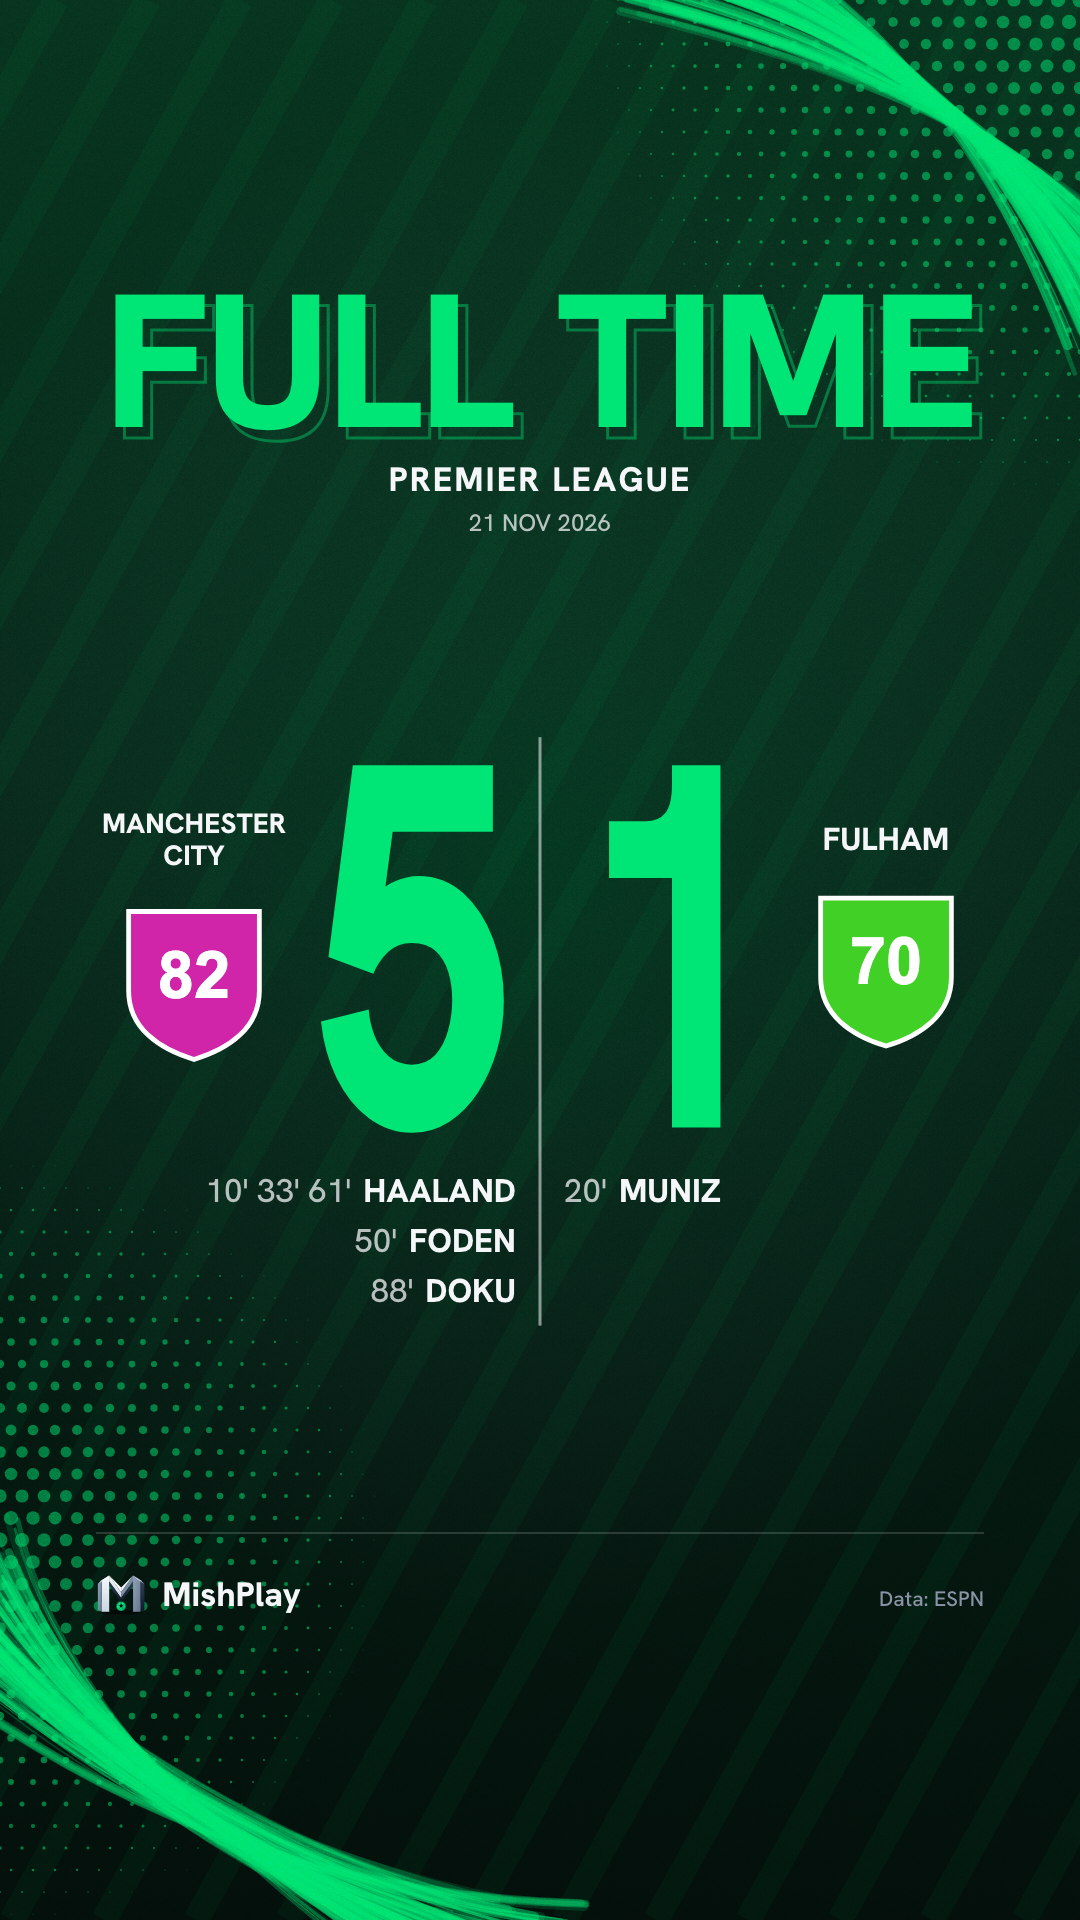
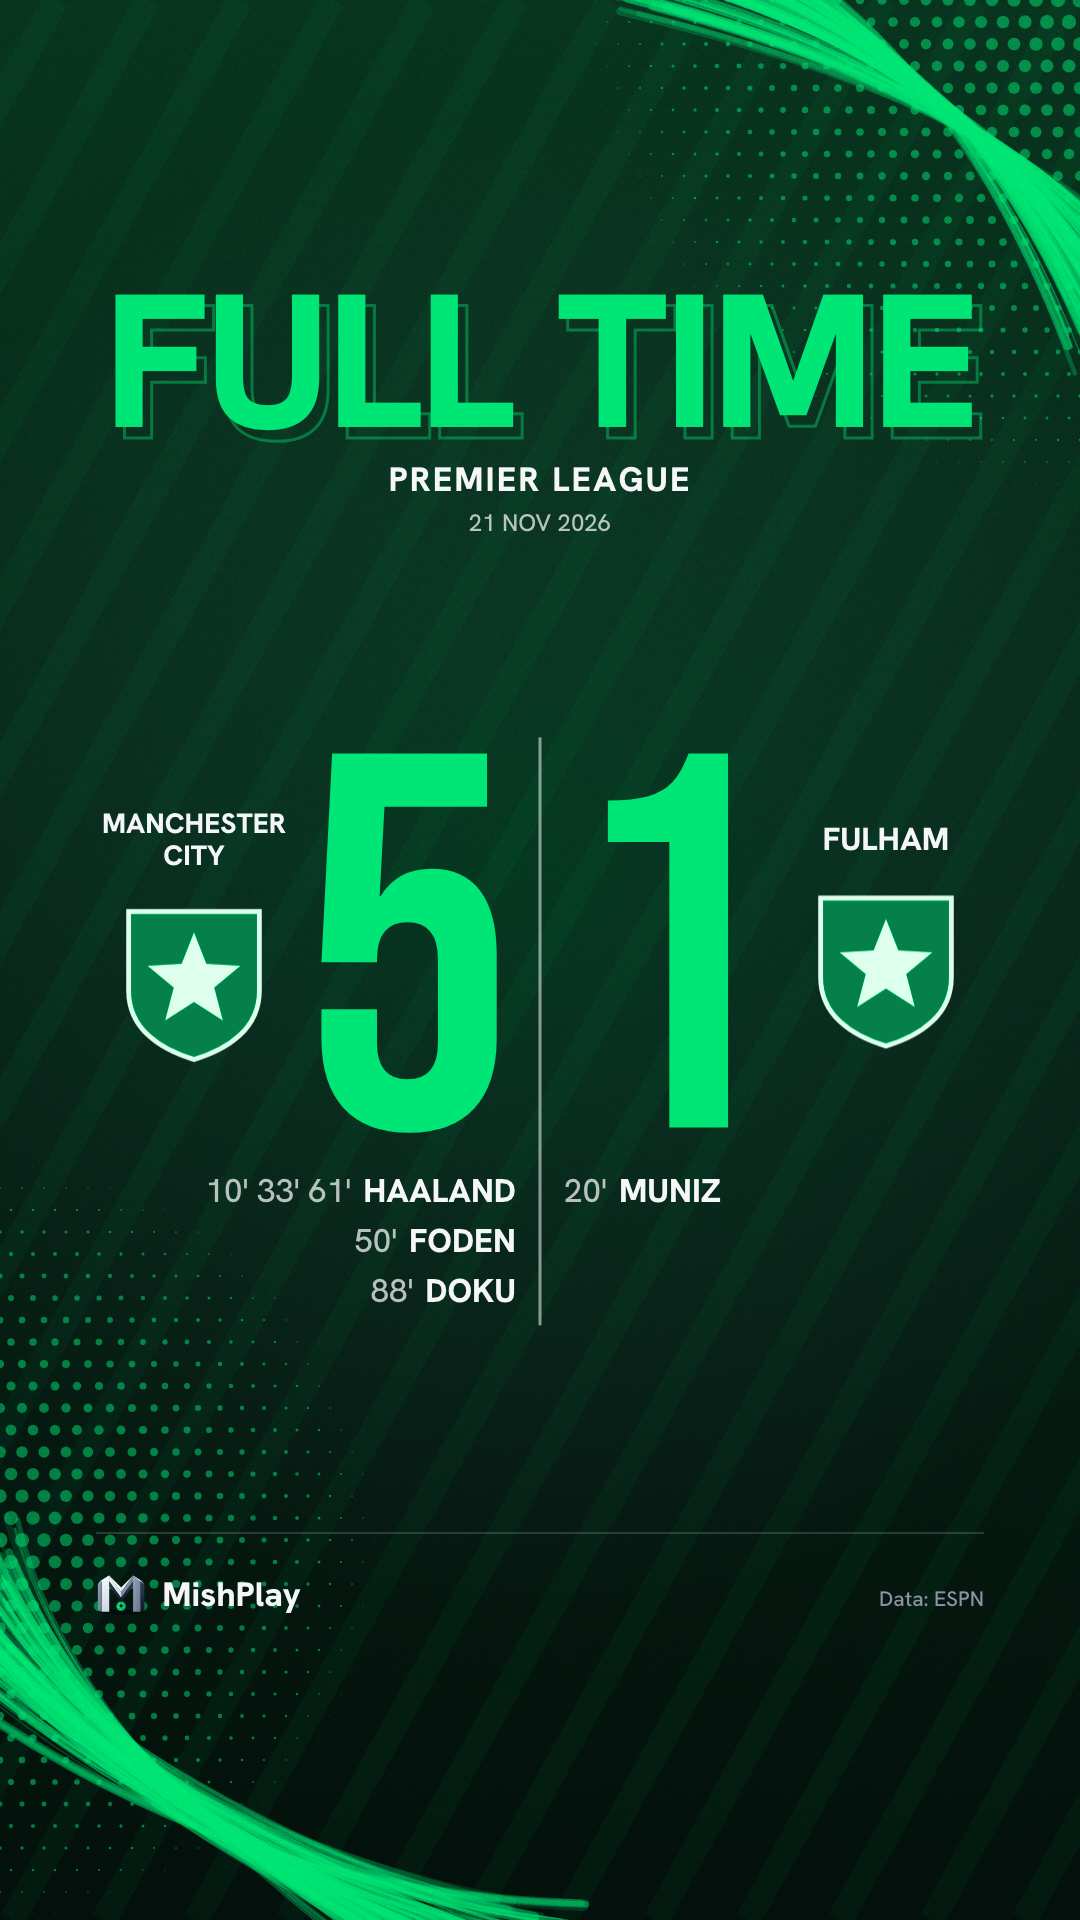
Match poster: Bebas Neue score numerals, crests recoloured in app green

diff --git a/src/features/share/draw.ts b/src/features/share/draw.ts
@@ -2,7 +2,7 @@ import type { PlayerCandidate, Scorer, ShareData, Side } from './model'
 import { splitName } from './model'
 import type { Loaded } from './images'
 import type { Team } from '../../services/football/types'
-import { COLOR, FONT_FAMILY, FORMATS, HAIR, MARGIN, SPACE, TYPE, WEIGHT, type FormatId } from './tokens'
+import { COLOR, FONT_FAMILY, FORMATS, HAIR, MARGIN, SCORE_FONT, SPACE, TYPE, WEIGHT, type FormatId } from './tokens'
 
 export { FORMATS, type FormatId }
 export type MatchTemplateId = 'result' | 'scorers' | 'fan'
@@ -99,13 +99,30 @@ function deepen(hex: string): string | null {
   const [R, G, B] = h < 60 ? [c, x, 0] : h < 120 ? [x, c, 0] : h < 180 ? [0, c, x] : h < 240 ? [0, x, c] : h < 300 ? [x, 0, c] : [c, 0, x]
   return `rgb(${Math.round((R + m0) * 255)},${Math.round((G + m0) * 255)},${Math.round((B + m0) * 255)})`
 }
-function crest(ctx: CanvasRenderingContext2D, im: Loaded | null, name: string, cx: number, cy: number, size: number, alpha = 1) {
+/** A crest recoloured in shades of the app green: each pixel's brightness picks the shade, so inner detail survives; transparency is kept. */
+function monoCrest(im: Loaded, w: number, h: number): CanvasImageSource {
+  const c = document.createElement('canvas'); c.width = Math.max(1, Math.round(w)); c.height = Math.max(1, Math.round(h))
+  const x = c.getContext('2d', { willReadFrequently: true })!; x.imageSmoothingQuality = 'high'; x.drawImage(im.img, 0, 0, c.width, c.height)
+  let px: ImageData
+  try { px = x.getImageData(0, 0, c.width, c.height) } catch { return c }   // unreadable pixels: keep the original colours
+  const p = px.data, lumAt = (i: number) => 0.2126 * p[i] + 0.7152 * p[i + 1] + 0.0722 * p[i + 2]
+  let lo = 255, hi = 0
+  for (let i = 0; i < p.length; i += 4) if (p[i + 3] > 128) { const v = lumAt(i); if (v < lo) lo = v; if (v > hi) hi = v }
+  const stops = [[6, 128, 74], [0, 230, 118], [222, 255, 238]]              // deep green → accent → near-white mint
+  for (let i = 0; i < p.length; i += 4) {
+    const t = hi - lo < 20 ? 0.5 : Math.min(1, Math.max(0, (lumAt(i) - lo) / (hi - lo)))
+    const s = t < 0.5 ? 0 : 1, k = t * 2 - s
+    for (let j = 0; j < 3; j++) p[i + j] = stops[s][j] + (stops[s + 1][j] - stops[s][j]) * k
+  }
+  x.putImageData(px, 0, 0); return c
+}
+function crest(ctx: CanvasRenderingContext2D, im: Loaded | null, name: string, cx: number, cy: number, size: number, alpha = 1, mono = false) {
   const d = dbg(); if (d) (d.meta.crests as string[] | undefined)?.push(im ? im.source : 'fallback')
   ctx.save(); ctx.globalAlpha = alpha
-  if (im) { const k = Math.min(size / im.w, size / im.h); ctx.drawImage(im.img, cx - (im.w * k) / 2, cy - (im.h * k) / 2, im.w * k, im.h * k) }
+  if (im) { const k = Math.min(size / im.w, size / im.h), w = im.w * k, h = im.h * k; ctx.drawImage(mono ? monoCrest(im, w, h) : im.img, cx - w / 2, cy - h / 2, w, h) }
   else { // intentional fallback: a quiet ring with initials, same footprint as a crest
-    ctx.strokeStyle = COLOR.ink; ctx.lineWidth = HAIR * 2; ctx.beginPath(); ctx.arc(cx, cy, size / 2 - 2, 0, Math.PI * 2); ctx.stroke()
-    text(ctx, initials(name), cx, cy + size * 0.13, { size: size * 0.36, weight: WEIGHT.display, align: 'center' })
+    ctx.strokeStyle = mono ? COLOR.accent : COLOR.ink; ctx.lineWidth = HAIR * 2; ctx.beginPath(); ctx.arc(cx, cy, size / 2 - 2, 0, Math.PI * 2); ctx.stroke()
+    text(ctx, initials(name), cx, cy + size * 0.13, { size: size * 0.36, weight: WEIGHT.display, align: 'center', color: mono ? COLOR.accent : COLOR.ink })
   }
   ctx.restore()
 }
@@ -275,14 +292,15 @@ function headline(ctx: CanvasRenderingContext2D, l: L, s: string, base: number, 
   return size
 }
 
-/** Score numeral, set tall and narrow (horizontal squeeze) so it can be huge inside a narrow column. */
-function numeral(ctx: CanvasRenderingContext2D, s: string, cx: number, base: number, size: number, maxW: number) {
-  const squeeze = 0.68; let sz = size
-  const wide = () => width(ctx, s, sz, WEIGHT.display, 0, -0.03 * sz) * squeeze
-  while (wide() > maxW && sz > 90) sz -= 4
+/** Score figures in the condensed display face, centred on cx; shrinks (2-digit scores) to fit maxW. */
+function numeral(ctx: CanvasRenderingContext2D, s: string, cx: number, base: number, size: number, maxW: number, color: string) {
+  let sz = size
+  const wide = () => { ctx.font = `400 ${sz}px ${SCORE_FONT}`; return ctx.measureText(s).width }
+  if (lsOk(ctx)) (ctx as unknown as { letterSpacing: string }).letterSpacing = '0px'
+  while (wide() > maxW && sz > 60) sz -= 4
   const w = wide(), x = cx - w / 2
-  ctx.save(); ctx.translate(x, base); ctx.scale(squeeze, 1); ctx.fillStyle = COLOR.accent; ctx.textAlign = 'left'; font(ctx, sz, WEIGHT.display, -0.03 * sz); ctx.fillText(s, 0, 0); ctx.restore()
-  const d = dbg(); if (d) d.texts.push({ t: s, x, y: base - sz * 0.72, w, h: sz * 0.73 })
+  ctx.save(); ctx.fillStyle = color; ctx.textAlign = 'left'; ctx.textBaseline = 'alphabetic'; ctx.font = `400 ${sz}px ${SCORE_FONT}`; ctx.fillText(s, x, base); ctx.restore()
+  const d = dbg(); if (d) d.texts.push({ t: s, x, y: base - sz * 0.7, w, h: sz * 0.71 })
 }
 
 /** One scorer: minutes then surname, hugging the centre line. */
@@ -312,7 +330,7 @@ function matchPoster(ctx: CanvasRenderingContext2D, l: L, inp: RenderInput, with
   const headBottom = y + SPACE.s2
 
   // measure the lower parts first so the whole block can be centred in the space left
-  const nSize = compact ? 400 : 520, capH = nSize * 0.72, lh = compact ? 44 : 50, size = compact ? 30 : 33
+  const capH = compact ? 288 : 374, nSize = capH / 0.7, lh = compact ? 44 : 50, size = compact ? 30 : 33
   const pens = m.homePens !== undefined && m.awayPens !== undefined, pensH = pens ? (compact ? 124 : 160) : 0
   const note = withScorers ? incompleteNote(data) : '', noteH = note ? SPACE.s6 : 0
   const lists = (['home', 'away'] as Side[]).map((sd) => (withScorers ? data.scorers.filter((s) => s.side === sd) : []))
@@ -330,9 +348,9 @@ function matchPoster(ctx: CanvasRenderingContext2D, l: L, inp: RenderInput, with
     const nm = wrap(ctx, nameOf(t).toUpperCase(), TEAM_COL, 32, WEIGHT.display, 3, 18), nlh = nm.size * 1.12
     const ty = top + (capH - (nm.lines.length * nlh + SPACE.s3 + cs)) / 2
     nm.lines.forEach((ln, k) => text(ctx, ln, colX, ty + nm.size * 0.8 + k * nlh, { size: nm.size, weight: WEIGHT.display, align: 'center', maxW: TEAM_COL, min: 16 }))
-    crest(ctx, home ? inp.imgs.home : inp.imgs.away, t.name, colX, ty + nm.lines.length * nlh + SPACE.s3 + cs / 2, cs)
+    crest(ctx, home ? inp.imgs.home : inp.imgs.away, t.name, colX, ty + nm.lines.length * nlh + SPACE.s3 + cs / 2, cs, 1, true)
     const a = home ? l.x0 + TEAM_COL + 8 : l.cx + SPLIT, b = home ? l.cx - SPLIT : l.x1 - TEAM_COL - 8
-    numeral(ctx, String(scoreOf(inp, sd)), (a + b) / 2, top + capH, nSize, b - a)
+    numeral(ctx, String(scoreOf(inp, sd)), (a + b) / 2, top + capH, nSize, b - a, COLOR.accent)
   })
 
   // scorers
@@ -353,8 +371,8 @@ function matchPoster(ctx: CanvasRenderingContext2D, l: L, inp: RenderInput, with
   if (note) { text(ctx, note, l.cx, by + SPACE.s4 + SPACE.s1, { size: 24, weight: WEIGHT.text, color: SOFT, align: 'center', maxW: W, min: 16 }); by += noteH }
   if (pens) {
     text(ctx, 'PENALTIES', l.cx, by + SPACE.s6, { size: 30, weight: WEIGHT.display, ls: 0.1, color: COLOR.accent, align: 'center' })
-    const ps = compact ? 68 : 88
-    text(ctx, `${m.homePens}–${m.awayPens}`, l.cx, by + SPACE.s6 + SPACE.s2 + ps * 0.8, { size: ps, weight: WEIGHT.display, align: 'center' })
+    const ps = compact ? 92 : 120
+    numeral(ctx, `${m.homePens}–${m.awayPens}`, l.cx, by + SPACE.s6 + SPACE.s2 + ps * 0.7, ps, W, COLOR.ink)
   }
   footer(ctx, l, inp)
 }

diff --git a/tests/e2e/mocks.ts b/tests/e2e/mocks.ts
@@ -19,7 +19,7 @@ export const imageHandler = (opts: { noPhotos?: boolean; noCrests?: boolean } = 
   if (/headshots/.test(u) ? opts.noPhotos : opts.noCrests) return r.fulfill({ status: 404, contentType: 'text/html', headers: cors, body: '404' })
   if (/headshots/.test(u)) return r.fulfill({ status: 200, contentType: 'image/svg+xml', headers: cors, body: '<svg xmlns="http://www.w3.org/2000/svg" width="600" height="436" viewBox="0 0 600 436"><circle cx="300" cy="150" r="95" fill="#c9a07a"/><path d="M110 436c0-130 80-190 190-190s190 60 190 190z" fill="#e2e8f0"/></svg>' })
   const id = Number(/(\d+)\.png/.exec(u)?.[1] ?? 0); const hue = (id * 47) % 360
-  return r.fulfill({ status: 200, contentType: 'image/svg+xml', headers: cors, body: `<svg xmlns="http://www.w3.org/2000/svg" width="500" height="500" viewBox="0 0 500 500"><path d="M60 40h380v230c0 110-90 170-190 200C150 440 60 380 60 270z" fill="hsl(${hue} 70% 48%)" stroke="#fff" stroke-width="14"/><text x="250" y="290" font-size="190" font-weight="900" text-anchor="middle" fill="#fff" font-family="Arial">${String(id).slice(-2)}</text></svg>` })
+  return r.fulfill({ status: 200, contentType: 'image/svg+xml', headers: cors, body: `<svg xmlns="http://www.w3.org/2000/svg" width="500" height="500" viewBox="0 0 500 500"><path d="M60 40h380v230c0 110-90 170-190 200C150 440 60 380 60 270z" fill="hsl(${hue} 70% 48%)" stroke="#fff" stroke-width="14"/><path d="M250 100l36 92 99 6-76 63 25 96-84-54-84 54 25-96-76-63 99-6z" fill="#fff"/></svg>` })
 }
 
 /** Adversarial but realistic names (live data has e.g. "Real Racing Club de Santander", "RCD Espanyol de Barcelona"). */

diff --git a/src/features/share/ShareEditor.tsx b/src/features/share/ShareEditor.tsx
@@ -4,6 +4,7 @@ import '@fontsource/hanken-grotesk/latin-500.css'
 import '@fontsource/hanken-grotesk/latin-800.css'
 import '@fontsource/hanken-grotesk/latin-ext-500.css'
 import '@fontsource/hanken-grotesk/latin-ext-800.css'
+import '@fontsource/bebas-neue/latin-400.css'
 import { Chip, Tabs, cx } from '../../components/ui'
 import { useOnline } from '../../hooks/useSwr'
 import { useSettings } from '../../app/settings'
@@ -77,7 +78,7 @@ export default function ShareEditor({ match, detail, detailLoading, competitionN
   useEffect(() => {
     const sample = `0123456789${match.home.name}${match.away.name}${data.candidates.map((c) => c.name).join('')}`
     let alive = true
-    Promise.all([document.fonts.load('800 64px "Hanken Grotesk"', sample), document.fonts.load('500 40px "Hanken Grotesk"', sample)]).catch(() => undefined).finally(() => alive && setFontReady(true))
+    Promise.all([document.fonts.load('800 64px "Hanken Grotesk"', sample), document.fonts.load('500 40px "Hanken Grotesk"', sample), document.fonts.load('400 200px "Bebas Neue"', '0123456789–')]).catch(() => undefined).finally(() => alive && setFontReady(true))
     return () => { alive = false }
   }, [match.home.name, match.away.name, data.candidates])
   useEffect(() => () => releaseImages(), [])

diff --git a/tests/e2e/share.spec.ts b/tests/e2e/share.spec.ts
@@ -297,7 +297,7 @@ test.describe('share poster system', () => {
 
   test('typeface is the bundled Hanken Grotesk (not a fallback) when drawing', async ({ context, page }) => {
     await setup(context); await openEditor(page)
-    expect(await page.evaluate(() => document.fonts.check('800 64px "Hanken Grotesk"') && document.fonts.check('500 40px "Hanken Grotesk"'))).toBe(true)
+    expect(await page.evaluate(() => document.fonts.check('800 64px "Hanken Grotesk"') && document.fonts.check('500 40px "Hanken Grotesk"') && document.fonts.check('400 200px "Bebas Neue"'))).toBe(true)
   })
 
   test('temporary resources are released when the editor closes', async ({ context, page }) => {

diff --git a/src/features/share/tokens.ts b/src/features/share/tokens.ts
@@ -33,6 +33,9 @@ export const TYPE = {
 
 export const FONT_FAMILY = '"Hanken Grotesk", -apple-system, "SF Pro Display", "Segoe UI", Roboto, "Helvetica Neue", Arial, sans-serif'
 
+/** Score numerals only (bundled Bebas Neue, OFL; digits and dash are in its latin subset). */
+export const SCORE_FONT = `"Bebas Neue", ${FONT_FAMILY}`
+
 export type FormatId = 'story' | 'post'
 /** safeTop/safeBottom: Instagram overlays (story header + reply bar) and feed crop. All text and key content stays inside. */
 export const FORMATS: Record<FormatId, { w: number; h: number; label: string; short: string; safeTop: number; safeBottom: number }> = {

diff --git a/README.md b/README.md
@@ -66,7 +66,8 @@ Match and player screens have a **Share** button that opens a poster editor: cho
 - Design system, tokens and per-template specs: `design/share-posters/` (derived from a Stitch exploration; see the limitation noted there). Code: `src/features/share/` (`tokens.ts`, `draw.ts`, `model.ts`, `images.ts`).
 - **Layout:** 1080×1920 vertical (plus 1080×1350), Instagram-safe areas, match posters are a big status headline over [crest, numeral | numeral, crest] in MishPlay emerald with drawn halftone and brush art, scorers under each side (`+N more` instead of tiny text), penalty shoot-out score only when there was one, player spotlight with a framed portrait over its blurred copy, or a typography-led layout (crest, shirt number, name) when there is no usable photo.
 - **Images, licence-gated** (`src/features/share/portrait.ts`, `research/images/LICENSING_APPROACH.md`): backgrounds are MishPlay's own drawn atmosphere by default, or an optional bundled CC0 stadium photo (blurred, credited). Player portraits come only from Wikimedia Commons, matched by the provider's exact player id via Wikidata P3681, and only if Commons says CC0 / public domain / CC BY (credited) or CC BY-SA (off until the user opts in; the poster then says "licensed CC BY-SA 4.0"). Missing/unclear/NC/ND licence = no photo. Provider (ESPN) photos are never used in posters. Club crests come from the provider and belong to their clubs (shown for identification; monogram fallback).
-- Typeface (Hanken Grotesk) is bundled; posters are generated offline from cached data.
+- Match-poster club crests are recoloured in shades of the app green; score numerals use Bebas Neue (OFL).
+- Typefaces (Hanken Grotesk, Bebas Neue) are bundled; posters are generated offline from cached data.
 - Tests pin the browser clock to the recorded fixture date (`tests/e2e/mocks.ts`), so they don't depend on the day they run.
 
 ## Deploy (static hosting)
